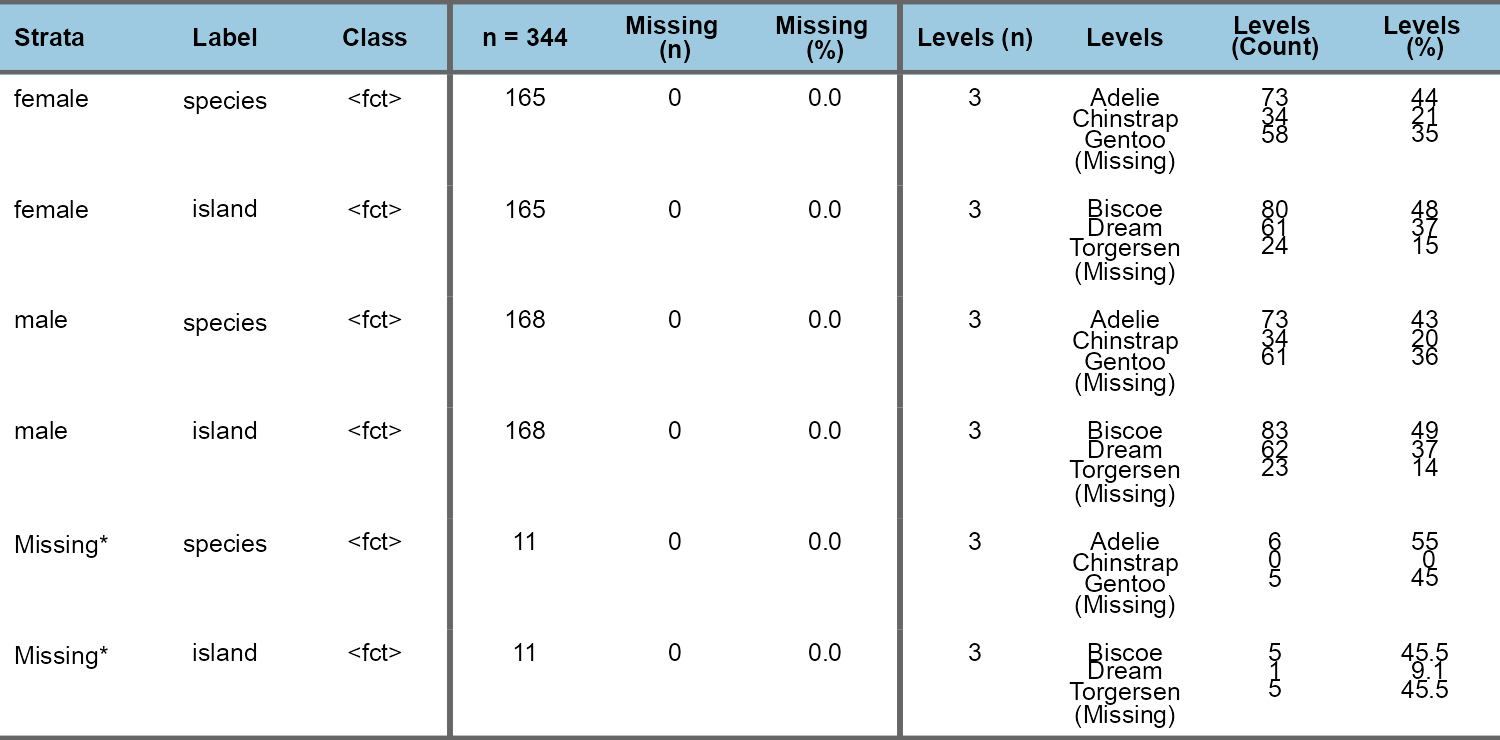
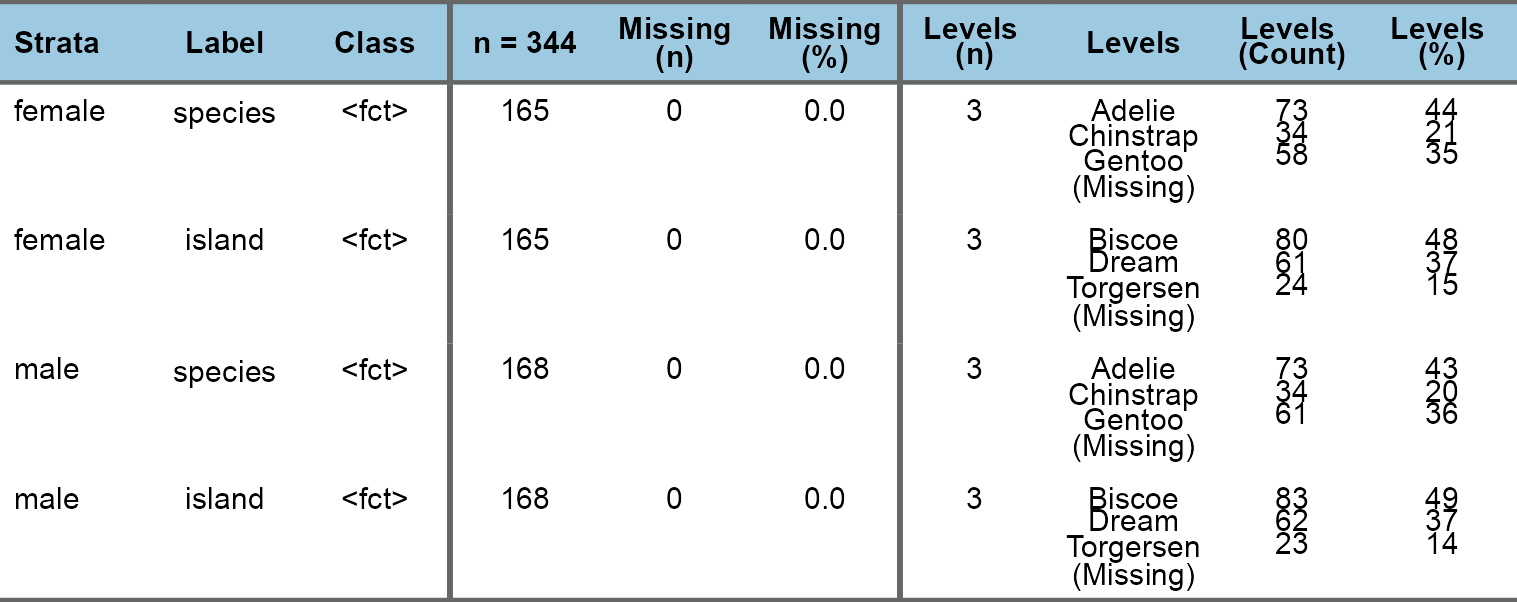
ag_ff_glimpse

diff --git a/README.md b/README.md
@@ -59,14 +59,19 @@ ag_ff_glimpse(penguins, type = "cont")
 
 ``` r
 ag_ff_glimpse(penguins, type = "cat") %>% 
-        flextable::height(height = 1.5, part = "body") %>% 
-        flextable::hrule(rule = "atleast", part = "body")
+        flextable::set_table_properties(
+        opts_html = list(
+    scroll = list(
+      height = "500px",
+      freeze_first_column = TRUE
+    )
+  ))
 ```
 
 <img src="man/figures/README-unnamed-chunk-4-1.png" width="100%" />
 
 ``` r
-ag_ff_glimpse(penguins, type = "cat", strata = "sex", missing = TRUE, flex_font_size = 9)
+ag_ff_glimpse(penguins, type = "cat", strata = "sex") 
 ```
 
 <img src="man/figures/README-unnamed-chunk-5-1.png" width="100%" />
